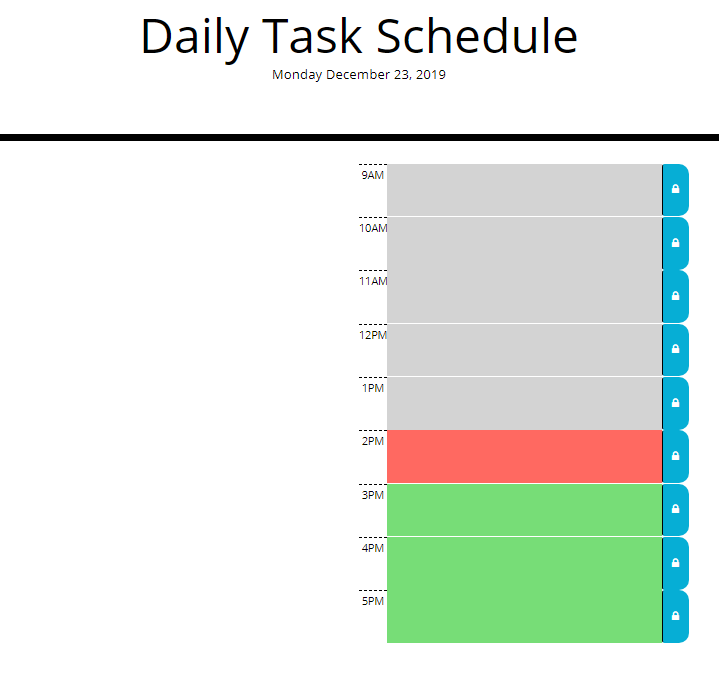
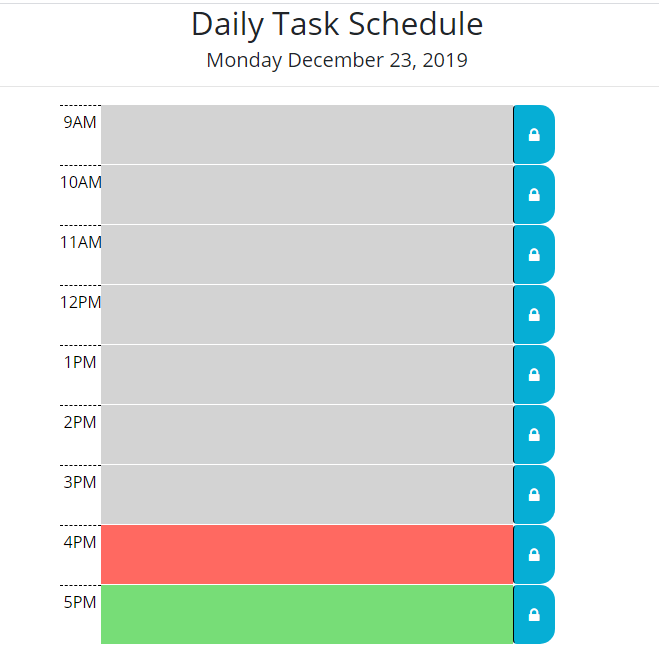
updated heading; updated var to const & let; close #6; git status git status git branch

diff --git a/assets/js/script.js b/assets/js/script.js
@@ -3,10 +3,10 @@ $(document).ready(function(){
 $("#currentDay").text(moment().format("dddd MMMM D, YYYY"));
 
 // this pulls data from local storage if it exists
-var scheduler = JSON.parse(localStorage.getItem("scheduler") || "[]");
+const scheduler = JSON.parse(localStorage.getItem("scheduler") || "[]");
 
-var schedStart = "9:00am";
-var schedEnd = "17:00pm";
+const schedStart = "9:00am";
+const schedEnd = "17:00pm";
 
 
 // if there is no data in local storage, this creates a new schedule
@@ -16,9 +16,9 @@ if (!localStorage.getItem("scheduler")) {
 
 // when app opens this compares the date in local storage to todays date
 // if dates match it leaves existing data otherwise it creates a new schedule
-var currDate = moment().format('YYYYMMDD');
-var schedulerDate = moment(scheduler[0].timeSlot, 'YYYYMMDDhh:mma');
-var  itemDate = schedulerDate.format('YYYYMMDD');
+const currDate = moment().format('YYYYMMDD');
+const schedulerDate = moment(scheduler[0].timeSlot, 'YYYYMMDDhh:mma');
+const  itemDate = schedulerDate.format('YYYYMMDD');
 
 if ( itemDate !== currDate) {
   scheduler = [];
@@ -26,7 +26,7 @@ if ( itemDate !== currDate) {
 }; 
 
 // this creates the timeslots and saves them to local storage
-function createTimeSlots(start, end){
+const createTimeSlots = (start, end) => {
   var timeSlots = [];
   var startTime = moment(start, 'hh:mm');
     var endTime = moment(end, 'hh:mm');
@@ -39,7 +39,7 @@ function createTimeSlots(start, end){
     }
 
     // This takes the timeSlots array and creates the array (scheduler) for user input & local storage
-    timeSlots.forEach(function(timeSlot) {
+    timeSlots.forEach = (timeSlot) => {
       
     var slot = timeSlot;
     var momentObj = moment(slot, 'YYYYMMDDhh:mma');
@@ -51,29 +51,27 @@ function createTimeSlots(start, end){
         desc: ""
     };
     scheduler.push(items);
-  });
+  };
     localStorage.setItem("scheduler", JSON.stringify(scheduler));
 };
 
 const schedule = $("#schedule");
 
-renderSchedule();
-updateColor();
 
 // this renders the schedule to the screen
-function renderSchedule(){
+const renderSchedule = () => {
   scheduler.forEach(function(item, index) {
-let tsContainer = $(`<div class="container w-100 px-0">`);
-let tsRow = $(`<div class="row w-100">`);
+const tsContainer = $(`<div class="container w-100 px-0">`);
+const tsRow = $(`<div class="row w-100">`);
 
-let tsCol1 = $(`<div class="col-1 h-100 px-0 text-center hour">`);
-let tsPara = $(`<p id="hour`+index+`" class="pt-2">`);
+const tsCol1 = $(`<div class="col-1 h-100 px-0 text-center hour">`);
+const tsPara = $(`<p id="hour`+index+`" class="pt-2">`);
 
-let tsCol2 = $(`<div class="col-10 h-100 px-0" id="descBox`+index+`">`);
-let tsTextArea = $(`<textarea id="desc`+index+`" class="w-100 h-100 pl-2 border-0">`);
+const tsCol2 = $(`<div id="descBox`+index+`">`);  // class is defined in the update color function
+const tsTextArea = $(`<textarea id="desc`+index+`" class="w-100 h-100 pl-2 border-0">`);
 
-let tsCol3 = $(`<div class="col-1 h-100 px-0">`);
-let tsButton = $(`<button id="saveBtn`+index+`" data-Index = "`+index+`" type ="submit" class="btn btn-block saveBtn h-100 d-inline"><i class="fa fa-lock"></i></button>`);
+const tsCol3 = $(`<div class="col-1 h-100 px-0">`);
+const tsButton = $(`<button id="saveBtn`+index+`" data-Index = "`+index+`" type ="submit" class="btn btn-block saveBtn h-100 d-inline"><i class="fa fa-lock"></i></button>`);
 
 schedule.append(tsContainer);
 tsContainer.append(tsRow);
@@ -87,14 +85,15 @@ tsCol3.append(tsButton);
 })  
 };
 
+renderSchedule();
 
 
 // this updates the background color of the text area based on past, present & future
-function updateColor(){
+const updateColor = () => {
   scheduler.forEach(function(item, index) {
-    var currHour = moment().format('YYYYMMDDHH');
-    var itemMoment = moment(scheduler[index].timeSlot, 'YYYYMMDDhh:mma');
-    var itemHour = itemMoment.format('YYYYMMDDHH');
+    const currHour = moment().format('YYYYMMDDHH');
+    const itemMoment = moment(scheduler[index].timeSlot, 'YYYYMMDDhh:mma');
+    const itemHour = itemMoment.format('YYYYMMDDHH');
     
     if (itemHour === currHour) {
       $("#descBox"+index).attr("class", "col-10 h-100 px-0 present")
@@ -108,6 +107,7 @@ function updateColor(){
   });
 };
 
+updateColor();
 
 // this is a timer that updates the background colors every minute
 window.setInterval(updateColor, 60 * 1000);

diff --git a/index.html b/index.html
@@ -18,19 +18,22 @@
 </head>
 
 <body>
-  <header class="jumbotron">
-    <h5 class="display-3">Daily Task Schedule</h5>
-    <!-- <p class="lead">A simple calendar app for scheduling your work day</p> -->
-    <p id="currentDay" class="lead"></p>
+  <!-- <header class="jumbotron"> -->
+      <div class="container"> 
+        <header>
+        <h2 class="w-100 text-center">Daily Task Schedule</h2>
+    <p id="currentDay" class="lead text-center"></p>
+          <hr>
   </header>
+  </div>
 
   <div class="container w-75">
     <div class="row w-100">
-      <div class="container w-50" id="taskContainer">
-        <div class="col" id="tasks">
+      <!-- <div class="container w-50" id="taskContainer"> -->
+        <!-- <div class="col" id="tasks"> -->
           <!-- task items will go here -->
-        </div>
-      </div>
+        <!-- </div> -->
+      <!-- </div> -->
       <div class="container w-50" id="scheduleContainer">
         <div class="col" id="schedule">
           <!-- This is where the dynamic time slots go -->

diff --git a/assets/css/style.css b/assets/css/style.css
@@ -5,7 +5,7 @@ body {
   margin: auto;
 }
 .container{
-  display: flex;
+  /* display: flex; */
 }
 
 textarea{
@@ -17,26 +17,13 @@ textarea{
   padding: 10px;
 }
 
-.jumbotron {
-  text-align: center;
-  background-color: transparent;
-  color: black;
-  border-radius: 0;
-  border-bottom: 10px solid black;
-}
-
-/* .description{ */
-  /* white-space: pre-wrap; */
-/* } */
-
 .time-block{
   text-align: center;
   border-radius: 15px;
 }
 
 .row {
-  /* white-space: pre-wrap; */
-  height: 80px;
+  height: 60px;
   border-top: 1px solid white;;
 }
 

diff --git a/README.md b/README.md
@@ -1,4 +1,4 @@
-# Work Day Scheduler (Homework5)
+# Daily Task Schedule
 
 This application is simple schedule app that allows the user to schedule items in 1 hour time slots from
 9AM to 5PM.  
